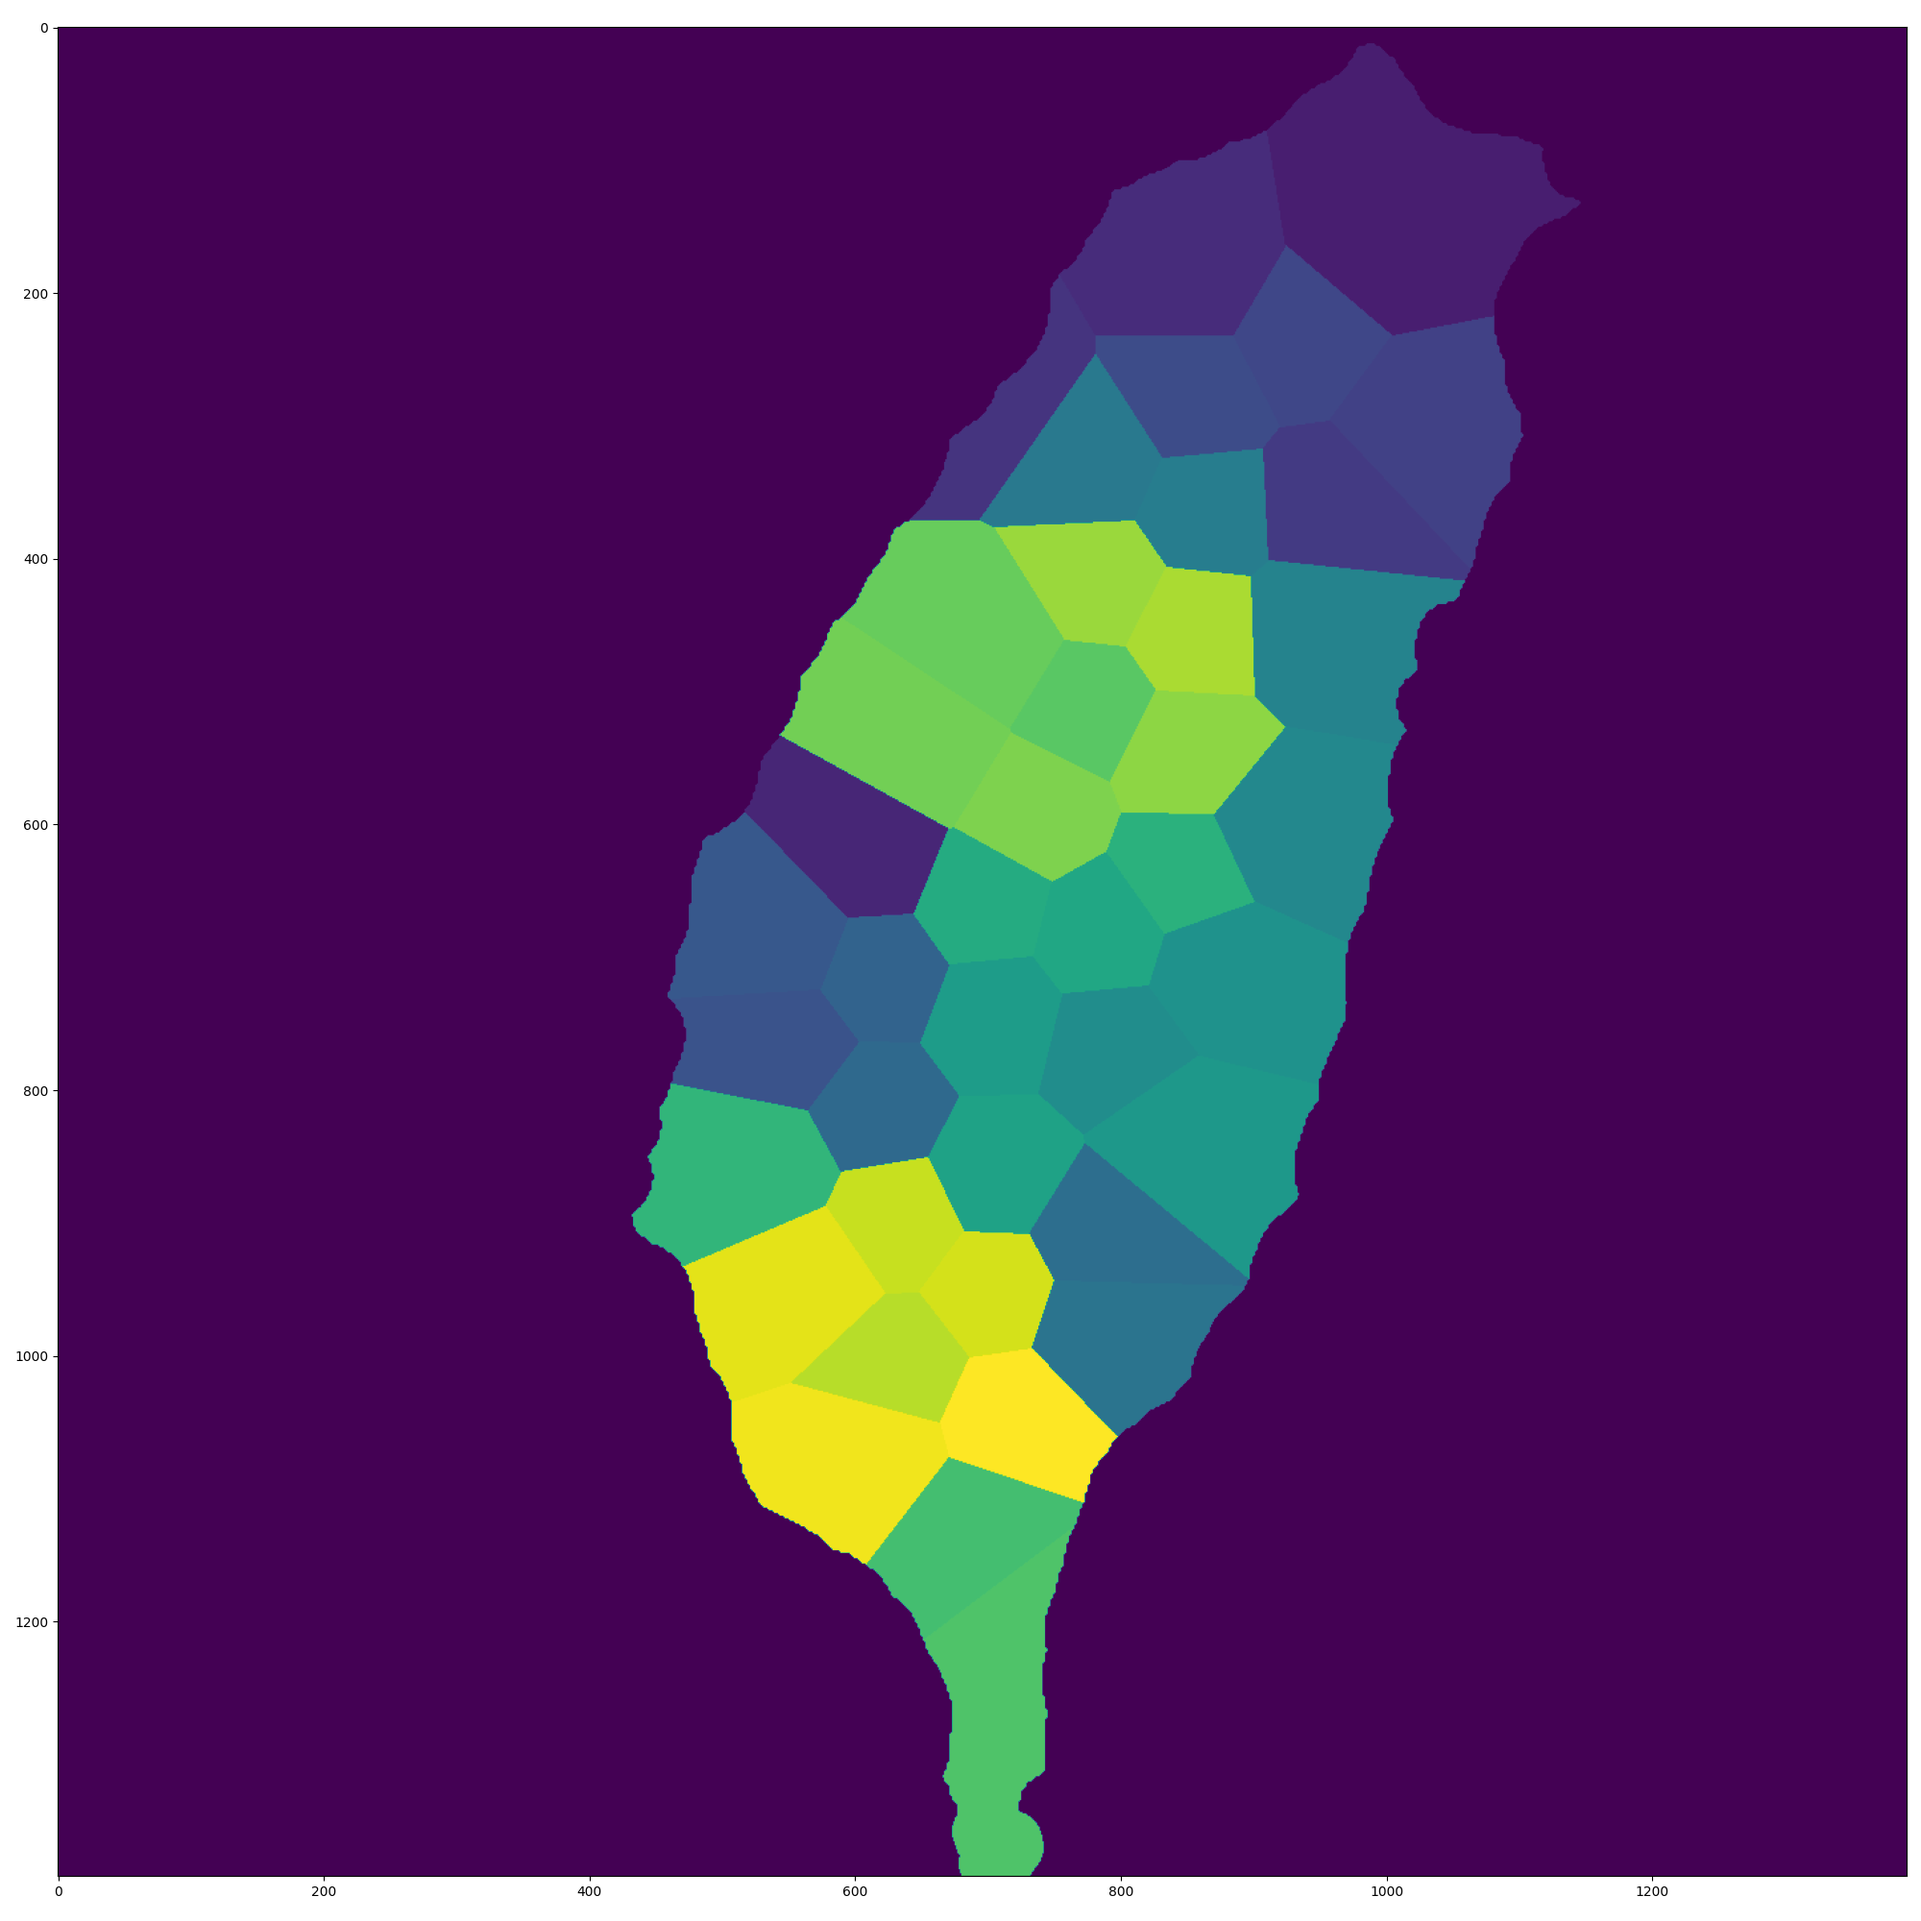
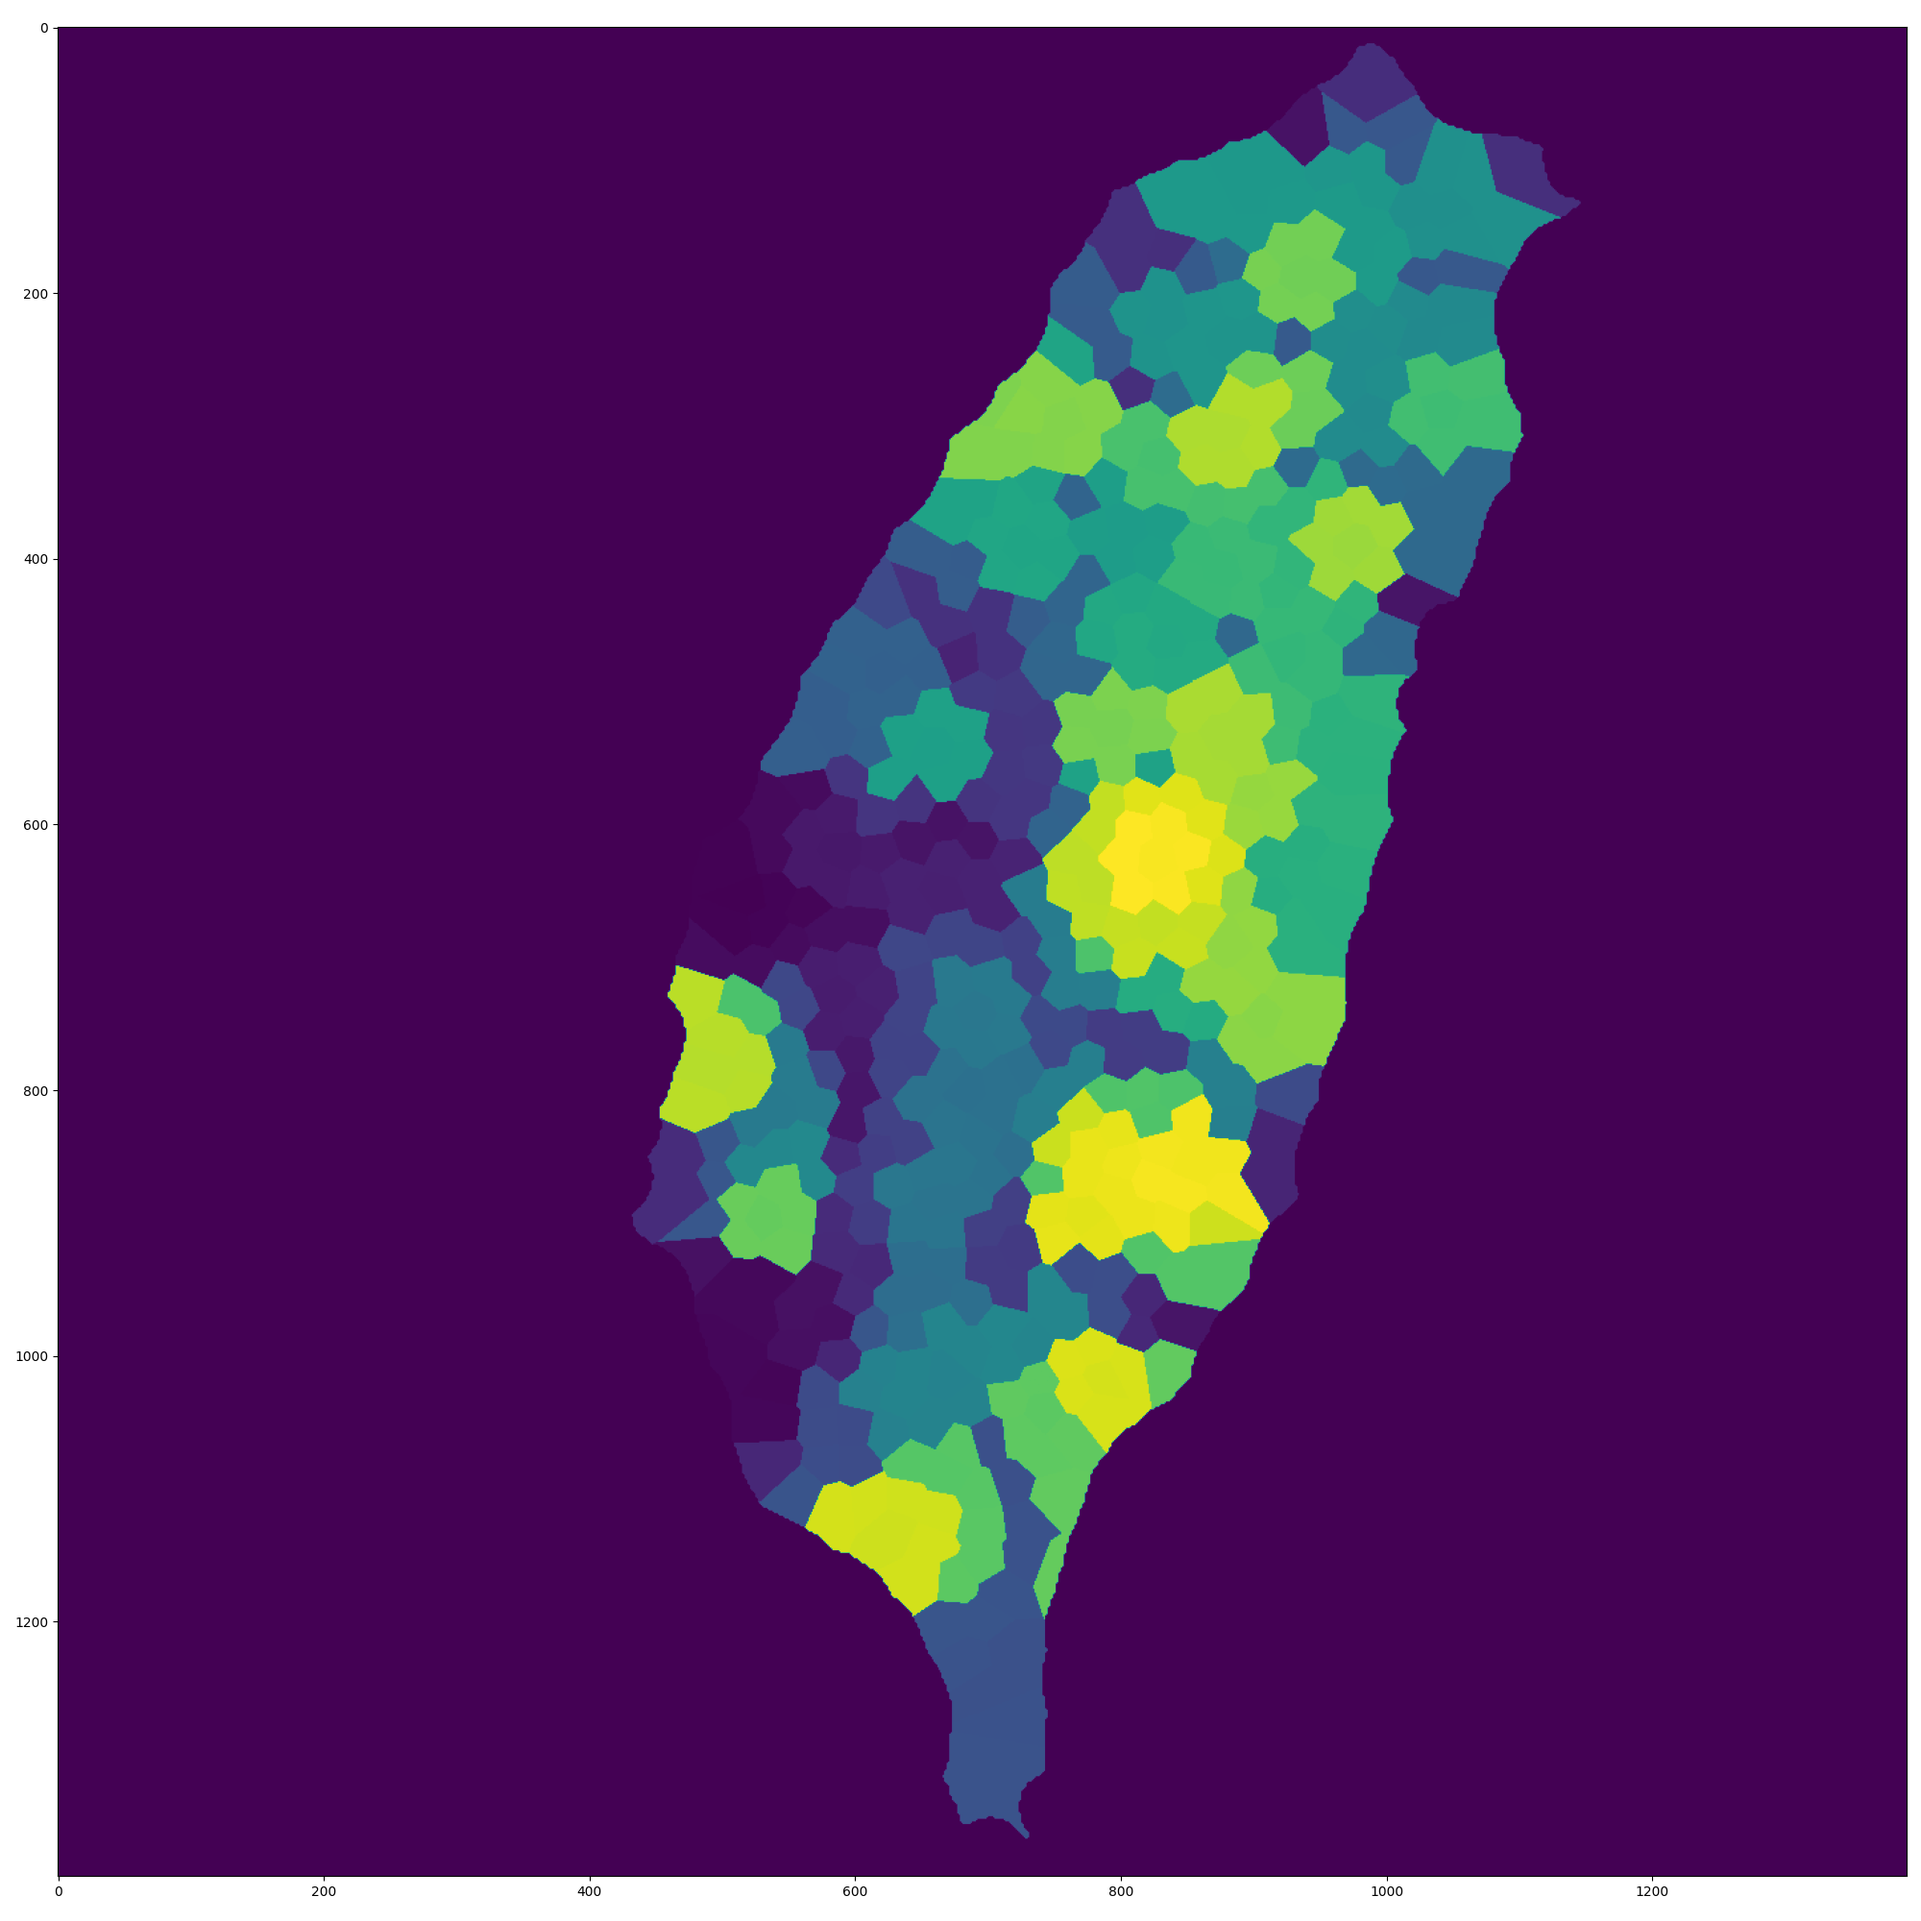
Buildings are more realistic size

Changed region(s): [[0.31, 0.031, 0.806, 0.992]]

diff --git a/src/UrbanFunctions.py b/src/UrbanFunctions.py
@@ -15,7 +15,7 @@ import math
 import rasterio
 from rasterio.transform import Affine
 from PIL import Image
-#todo get a real size for buildings and river width
+
 def InitUrbanFunctions(res, shore1, imStretch1, outputDir1, seed):
     global inputResolution
     global shore
@@ -56,7 +56,7 @@ def Generate_river_map(hydrology, normalizer):
     plt.figure(11)
     plt.axis('off')
     plt.imshow(shore, extent = imStretch, interpolation = 'none')
-    plt.savefig(outputDir + 'out-rivers2.png', dpi = fig2.dpi, bbox_inches = 'tight', pad_inches = 0.0)
+    plt.savefig(outputDir + 'out-rivers-city-mask.png', dpi = fig2.dpi, bbox_inches = 'tight', pad_inches = 0.0)
     plt.axis('on')
 
 def AcceptProbabilityFunction(radius, delta):
@@ -112,7 +112,7 @@ def GenerateCity(Ts, radius, minElevation, maxElevation):
     selectedCenter = primitives[centerIndex]
     (centerX, centerY) = selectedCenter.position
     cityPoints = Ts.query_ball_point(selectedCenter.position, radius)
-    im = Image.open(outputDir + 'out-rivers2.png')
+    im = Image.open(outputDir + 'out-rivers-city-mask.png')
     pix = im.load()
     picSize = max(im.size)
     
@@ -143,18 +143,19 @@ def GenerateCities(Ts, numCities):
         GenerateCity(Ts, radius = 120, minElevation = 300, maxElevation = 75000)
     print()
     print("Generating city points image with", len(cityPointsGlobal), "points...")
-    plt.figure(figsize = (16, 16))
+    fig = plt.figure(figsize = (16, 16))
     #myAx = fig.add_subplot(111)
     plt.imshow(shore, extent = imStretch)
     #eleLambda = lambda a : a.elevation / highestRidgeElevation
     #eleLambda = lambda a : 0.2
     
-    plt.scatter(*zip(*[t.position for t in cityPointsGlobal]), c = '#888888', s = 8, lw = 0, marker = "s")
+    buildingSize=(72./fig.dpi)**2
+    plt.scatter(*zip(*[t.position for t in cityPointsGlobal]), c = '#888888', s = buildingSize, lw = 0, marker = "s")
 
     plt.gray()
     plt.axis('off')
     plt.tight_layout()
-    plt.savefig(outputDir + "city-primitives.png", dpi = 500, bbox_inches = 'tight', pad_inches = 0)
+    plt.savefig(outputDir + "city-primitives.png", dpi = fig.dpi, bbox_inches = 'tight', pad_inches = 0)
     plt.axis('on')
 
     # Create reject image
@@ -164,10 +165,10 @@ def GenerateCities(Ts, numCities):
     #eleLambda = lambda a : a.elevation / highestRidgeElevation
     #eleLambda = lambda a : 0.2
 
-    plt.scatter(*zip(*[t.position for t in cityPointsAll]), c = '#888888', s = 8, lw = 0, marker = "s")
+    plt.scatter(*zip(*[t.position for t in cityPointsAll]), c = '#888888', s = buildingSize, lw = 0, marker = "s")
 
     plt.gray()
     plt.axis('off')
     plt.tight_layout()
-    plt.savefig(outputDir + "city-primitives-reject.png", dpi = 500, bbox_inches = 'tight', pad_inches = 0)
+    plt.savefig(outputDir + "city-primitives-reject.png", dpi = fig.dpi, bbox_inches = 'tight', pad_inches = 0)
     plt.axis('on')
